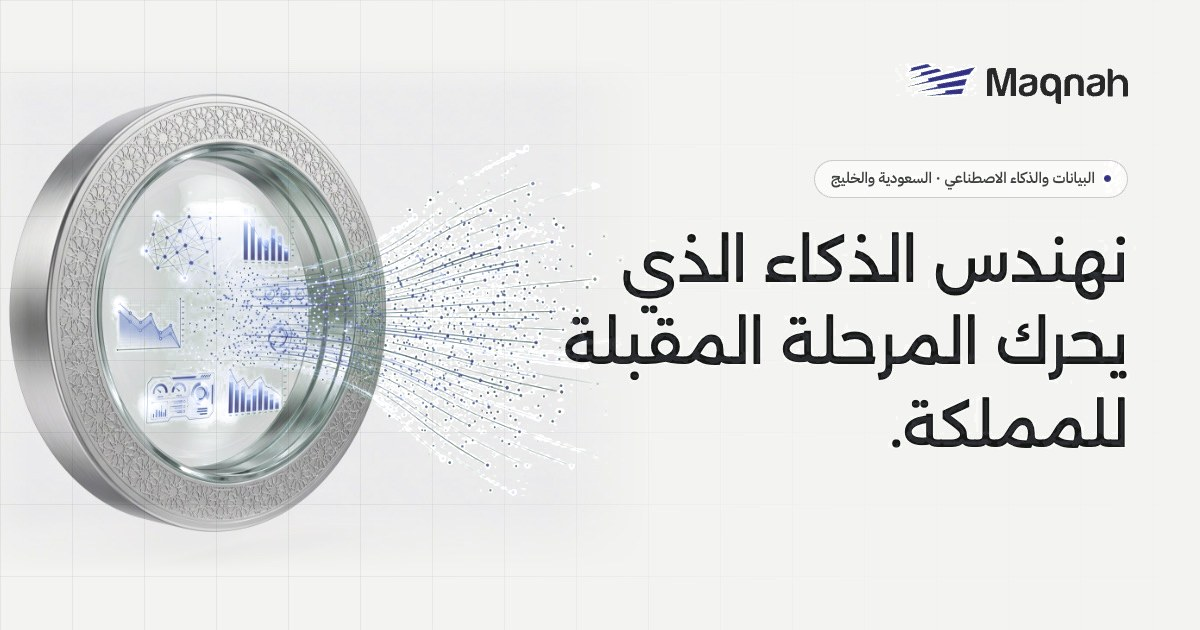
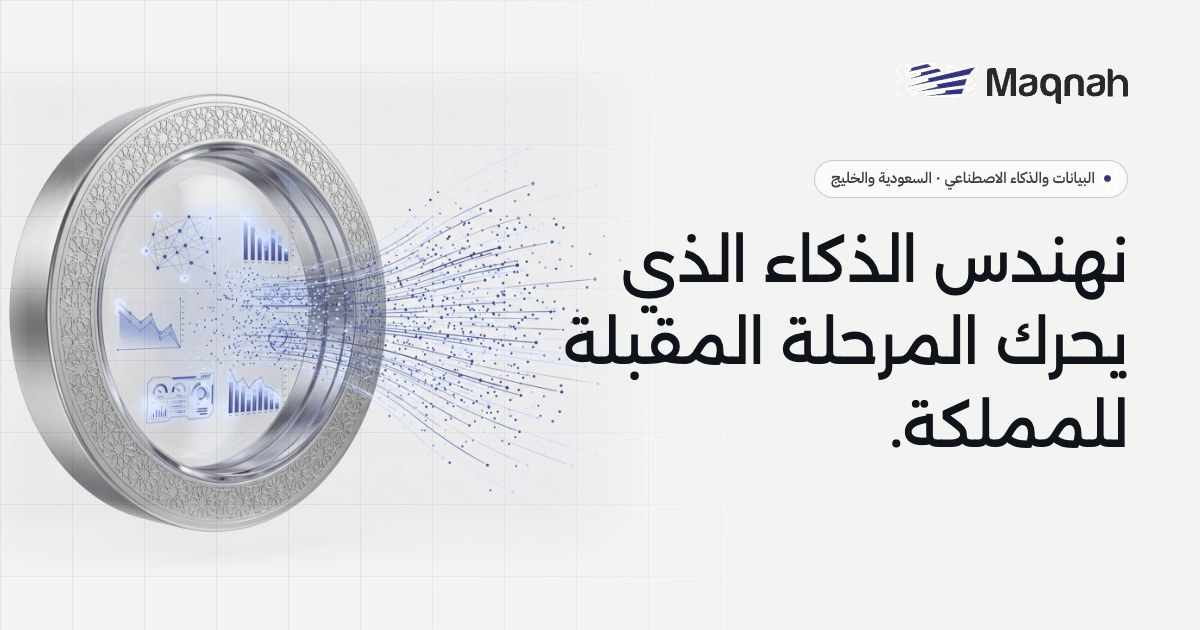
Cut the hero lens out properly so the wall never shows through it
The lens was multiplied onto the cube wall, so the wall's grid lines ran
through the ring and glass, and the green-to-indigo recolour had blown the
pale glows out to white patches. The lens is now a transparent WebP: the
ring and glass are opaque, the data streams and floor shadow carry soft
alpha. The recolour rotates OKLab hue and keeps lightness, so glows stay
soft tints. The share images get the same recolour.

diff --git a/src/app/globals.css b/src/app/globals.css
@@ -409,20 +409,13 @@
     }
   }
 
-  /* The hero lens: multiplied onto the cube wall so its white ground drops
-     out, with feathered edges so the render's soft floor shadow never
-     reads as a rectangle. */
+  /* The hero lens is a transparent cut-out, drawn as is so the wall never
+     shows through the ring or glass. Only the far ends of the data streams
+     fade, so they emerge from the copy side (the fade mirrors in RTL with
+     the image). */
   .hero-visual {
-    mix-blend-mode: multiply;
-    filter: brightness(1.04);
-    -webkit-mask-image:
-      linear-gradient(90deg, transparent 0%, #000 14%, #000 90%, transparent 100%),
-      linear-gradient(180deg, transparent 0%, #000 7%, #000 86%, transparent 100%);
-    -webkit-mask-composite: source-in;
-    mask-image:
-      linear-gradient(90deg, transparent 0%, #000 14%, #000 90%, transparent 100%),
-      linear-gradient(180deg, transparent 0%, #000 7%, #000 86%, transparent 100%);
-    mask-composite: intersect;
+    -webkit-mask-image: linear-gradient(90deg, transparent 0%, #000 11%);
+    mask-image: linear-gradient(90deg, transparent 0%, #000 11%);
   }
 
   /* Gentle float for the hero's glass details */

diff --git a/src/lib/image-loader.ts b/src/lib/image-loader.ts
@@ -10,7 +10,7 @@
  * listed is served as-is.
  */
 const LADDERS: [RegExp, number[]][] = [
-  [/^\/img\/hero-lens\.jpg$/, [800, 1200, 1600]],
+  [/^\/img\/hero-lens\.webp$/, [800, 1200, 1600]],
   [/^\/img\/work-[a-z-]+\.jpg$/, [600, 1200]],
   [/^\/img\/industry-[a-z-]+\.jpg$/, [480, 960]],
 ];
@@ -20,5 +20,5 @@ export default function imageLoader({ src, width }: { src: string; width: number
   if (!ladder) return src;
   const largest = ladder[ladder.length - 1];
   const pick = ladder.find((w) => w >= width) ?? largest;
-  return pick === largest ? src : src.replace(/\.jpg$/, `-${pick}.jpg`);
+  return pick === largest ? src : src.replace(/\.(jpg|webp)$/, `-${pick}.$1`);
 }

diff --git a/src/lib/i18n/en.ts b/src/lib/i18n/en.ts
@@ -85,7 +85,7 @@ export const en = {
     lead: "Maqnah builds AI-native data platforms that let enterprises and startups across Saudi Arabia and the GCC sense, decide and act at the speed of change.",
     cta: { label: "See our work", href: "#work" },
     visual: {
-      src: "/img/hero-lens.jpg",
+      src: "/img/hero-lens.webp",
       alt: "A silver lens etched with an Islamic geometric pattern, turning streams of data into live dashboards",
     },
   },

diff --git a/src/components/sections/Hero.tsx b/src/components/sections/Hero.tsx
@@ -95,7 +95,7 @@ export function Hero({ t: hero }: { t: Dictionary["hero"] }) {
           </div>
         </div>
 
-        {/* The lens: multiplied onto the wall so its white ground disappears */}
+        {/* The lens: a cut-out, so it sits solid on the wall and only its data streams and shadow are see-through */}
         <div className="relative lg:-me-10 xl:-me-20">
           <Image
             src={hero.visual.src}

diff --git a/src/lib/i18n/ar.ts b/src/lib/i18n/ar.ts
@@ -109,7 +109,7 @@ export const ar = {
       "href": "#work"
     },
     "visual": {
-      "src": "/img/hero-lens.jpg",
+      "src": "/img/hero-lens.webp",
       "alt": "عدسة فضية محفورة بزخرفة هندسية إسلامية، تحول تدفقات البيانات إلى لوحات معلومات حية"
     }
   },

diff --git a/README.md b/README.md
@@ -47,7 +47,8 @@ Nav → Hero → Agentic expertise → About → What we do → Industries
 The hero backdrop, `visuals/WaveGrid.tsx`, is a 40×40 wall of instanced cubes
 seen from above, rippling wherever the cursor has been. Three.js loads lazily
 on the client and the loop pauses when the hero scrolls away. The lens render
-is multiplied onto it with feathered edges (`.hero-visual` in `globals.css`).
+is a transparent cut-out (`public/img/hero-lens.webp`): the ring and glass are
+opaque, the data streams and floor shadow carry soft alpha.
 
 The old `/light` URL permanently redirects to `/` (`next.config.ts`).
 
